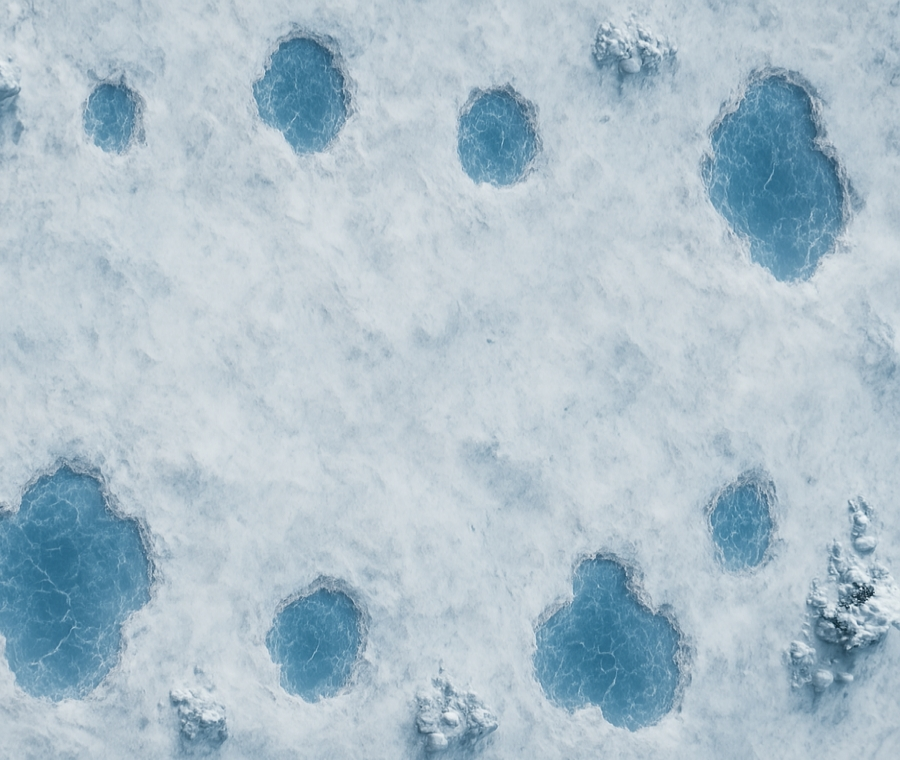
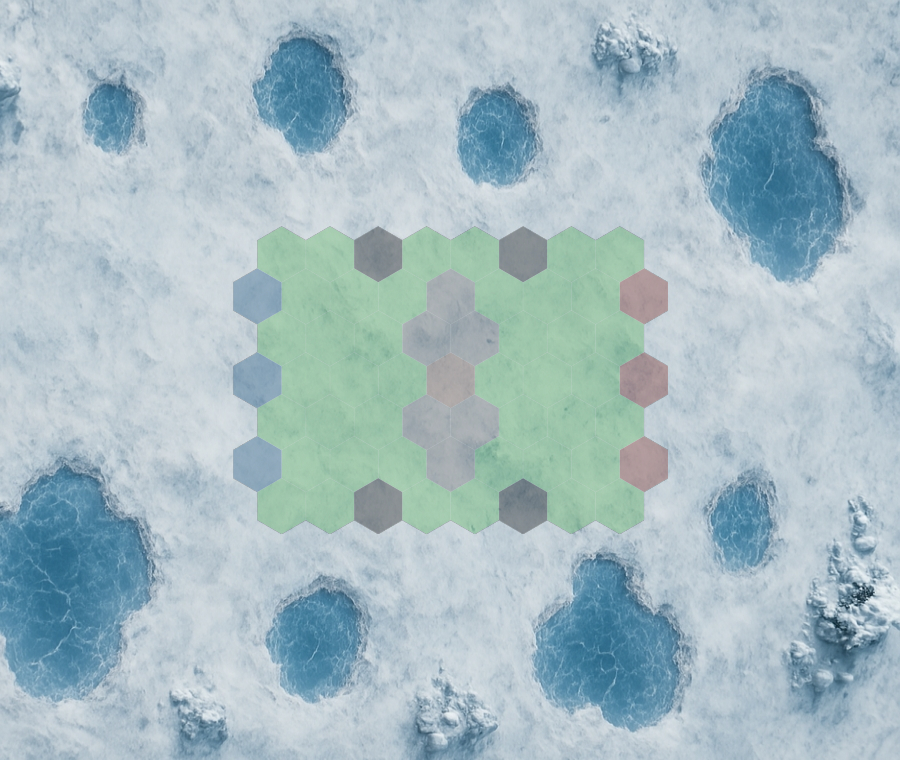
Improvements

Changed region(s): [[0.2489, 0.3026, 0.7467, 0.6961]]

diff --git a/frontend/lib/domain/components/battlefield_component.dart b/frontend/lib/domain/components/battlefield_component.dart
@@ -28,7 +28,7 @@ class BattlefieldComponent extends PositionComponent {
     add(
       BattlefieldBackgroundComponent(
         position: size / 2,
-        size: Vector2(size.x - padding, size.y - padding),
+        size: Vector2(size.x * 1.5, size.y * 1.5),
       ),
     );
 
@@ -103,7 +103,7 @@ class BattlefieldGridComponent extends PositionComponent {
 
 class BattlefieldBackgroundComponent extends SpriteComponent {
   BattlefieldBackgroundComponent({required super.position, required super.size})
-    : super(anchor: Anchor.center, priority: Priority.unit.value);
+    : super(anchor: Anchor.center, priority: Priority.battlefield.value);
 
   @override
   FutureOr onLoad() async {
